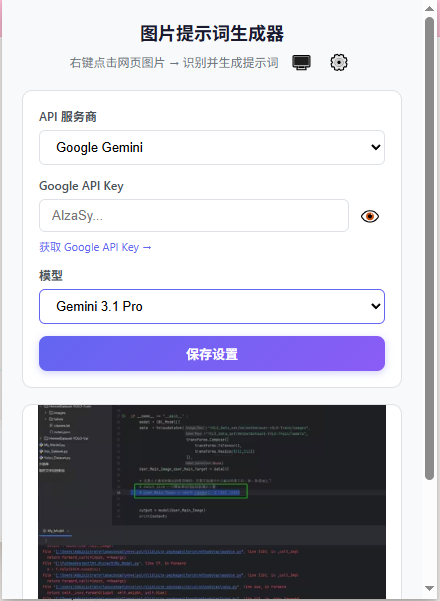
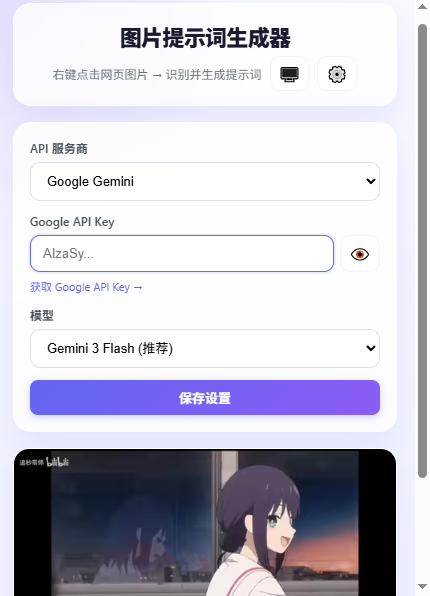
docs: redesign README with new screenshots and polished layout
Made-with: Cursor

diff --git a/README.md b/README.md
@@ -1,75 +1,110 @@
-# Image Prompt Generator / 图片提示词生成器
+<div align="center">
 
-一个基于多模态 AI 的图片识别与提示词生成工具。上传或选取图片，AI 自动分析内容、风格、构图、光影等元素，输出可直接用于 Midjourney、Stable Diffusion、DALL-E 等 AI 绘画工具的英文提示词，同时附带中文描述摘要。
+# Image Prompt Generator
 
-## 界面演示
+**AI 多模态图片识别 & 绘画提示词生成器**
 
-### 独立网页模式
+上传任意图片，AI 自动分析内容、风格、构图、色彩与光影，  
+输出可直接用于 Midjourney / Stable Diffusion / DALL-E 的中英文提示词。
 
-![独立网页模式演示](assets/screenshots/web-demo.png)
+[![Release](https://img.shields.io/github/v/release/Iroha-P/Image-Prompt-Generator?style=flat-square&color=6366f1)](https://github.com/Iroha-P/Image-Prompt-Generator/releases)
+[![License](https://img.shields.io/github/license/Iroha-P/Image-Prompt-Generator?style=flat-square&color=8b5cf6)](LICENSE)
 
-### 扩展弹窗模式
+</div>
 
-![扩展弹窗模式演示](assets/screenshots/popup-demo.png)
+---
 
-## 功能特点
+## Screenshots
 
-- **多种图片输入方式** — 拖拽上传、点击选择文件、粘贴图片 URL、右键网页图片
-- **多家 AI 服务商支持** — 硅基流动、Google Gemini、Anthropic Claude、OpenAI、OpenCode Zen、Vtrix
-- **丰富的模型选择** — 从免费模型到旗舰模型，包括 Gemini 3.1 Pro、Claude Opus 4.5、GPT-5.2 等
-- **双形态运行** — 既可作为 Chrome 扩展使用（右键识别网页图片），也可作为独立网页工具使用
-- **一键复制** — 生成的提示词可一键复制到剪贴板
-- **设置持久化** — API Key 和偏好设置自动保存
+<table>
+<tr>
+<td width="65%">
 
-## 支持的 AI 服务商
+**Web 全屏模式**
 
-| 服务商 | 推荐场景 | API 格式 |
+<img src="assets/screenshots/web-demo.png" alt="Web Demo" />
+
+</td>
+<td width="35%">
+
+**Chrome 扩展弹窗**
+
+<img src="assets/screenshots/popup-demo.png" alt="Extension Popup Demo" />
+
+</td>
+</tr>
+</table>
+
+---
+
+## Features
+
+| | 特性 | 说明 |
+|:---:|---|---|
+| **🖼** | 多种图片输入 | 拖拽上传、点击选择、粘贴 URL、右键网页图片 |
+| **🤖** | 6 家 AI 服务商 | 硅基流动 / Google Gemini / Claude / OpenAI / OpenCode / Vtrix |
+| **🧠** | 丰富的模型 | Gemini 3.1 Pro、Claude Opus 4.5、GPT-5.2 等 |
+| **🔄** | 双模式运行 | Chrome 扩展 + 独立网页，按需切换 |
+| **📋** | 一键复制 | 生成结果一键复制到剪贴板 |
+| **💾** | 设置持久化 | API Key 和偏好自动保存到本地 |
+
+---
+
+## Supported Providers
+
+| 服务商 | 推荐场景 | 格式 |
 |---|---|---|
-| **硅基流动 SiliconFlow** | 国内用户首选，有免费模型 | OpenAI 兼容 |
+| **硅基流动 SiliconFlow** | 国内首选，有免费模型 | OpenAI 兼容 |
 | **Google Gemini** | Gemini 3 系列，高质量多模态 | Gemini API |
-| **Anthropic Claude** | Claude Sonnet/Haiku，稳定可靠 | Anthropic API |
+| **Anthropic Claude** | Claude Sonnet / Haiku，稳定可靠 | Anthropic API |
 | **OpenAI** | GPT-4o 系列 | OpenAI API |
 | **OpenCode Zen** | 多模型聚合 | OpenAI 兼容 |
-| **Vtrix** | 全模型聚合（Gemini/Claude/GPT） | OpenAI 兼容 |
+| **Vtrix** | 全模型聚合 (Gemini / Claude / GPT) | OpenAI 兼容 |
 
-## 使用方式
+---
 
-### 方式一：独立网页工具
+## Quick Start
 
-直接在浏览器中打开 `index.html`，拖拽图片或粘贴 URL 即可使用。
+### 方式一 · 独立网页
 
-### 方式二：Chrome 扩展
+直接在浏览器中打开 `index.html`，拖拽图片或粘贴 URL 即可。
 
-1. 打开 Chrome，进入 `chrome://extensions/`
-2. 开启右上角「开发者模式」
-3. 点击「加载已解压的扩展程序」，选择本项目文件夹
-4. 在网页中右键任意图片 → 选择「识别图片并生成提示词」
-5. 也可点击扩展弹窗中的 🖥 按钮进入全屏上传模式
+### 方式二 · Chrome 扩展
+
+1. 打开 `chrome://extensions/`，开启 **开发者模式**
+2. 点击「加载已解压的扩展程序」，选择本项目文件夹
+3. 在网页中 **右键任意图片** → 选择「识别图片并生成提示词」
+4. 或点击扩展弹窗中的 🖥 按钮进入全屏上传模式
 
 ### 配置 API Key
 
-首次使用需配置 API Key：
+首次使用点击右上角「设置」→ 选择服务商 → 填入 API Key → 选择模型 → 保存。
 
-1. 点击「设置」按钮
-2. 选择 API 服务商
-3. 填入对应的 API Key（从服务商官网获取）
-4. 选择模型并保存
+---
 
-## 项目结构
+## Project Structure
 
 ```
-├── index.html        # 独立网页工具入口
-├── app.js            # 网页工具逻辑（API 调用 + UI 交互）
-├── style.css         # 网页工具样式
-├── manifest.json     # Chrome 扩展配置
-├── background.js     # 扩展 Service Worker（API 调用）
-├── popup.html        # 扩展弹窗页面
-├── popup.js          # 扩展弹窗逻辑
-├── popup.css         # 扩展弹窗样式
-└── README.md
+Image-Prompt-Generator/
+│
+├─ 🌐 Web 独立网页
+│  ├─ index.html          入口页面
+│  ├─ app.js              交互逻辑 & API 调用
+│  └─ style.css           样式
+│
+├─ 🧩 Chrome 扩展
+│  ├─ manifest.json       扩展配置
+│  ├─ background.js       Service Worker (API 调用)
+│  ├─ popup.html          弹窗页面
+│  ├─ popup.js            弹窗逻辑
+│  └─ popup.css           弹窗样式
+│
+└─ 📄 README.md
 ```
 
-## 输出示例
+---
+
+## Output Example
 
 ```
 【中文描述】
@@ -82,11 +117,13 @@ volumetric lighting, cinematic composition, ultra-detailed,
 purple and blue color palette, blade runner aesthetic, 8k resolution
 ```
 
-## 隐私说明
+---
 
-- 所有 API Key 仅存储在本地浏览器中（localStorage / chrome.storage），不会上传到任何服务器
-- 图片数据仅在调用 AI 接口时传输给所选的 API 服务商，本工具不保存任何图片
+## Privacy
+
+- 所有 API Key **仅存储在本地浏览器**（localStorage / chrome.storage），不会上传到任何服务器
+- 图片数据仅在调用 AI 接口时传输给所选服务商，本工具不保存任何图片
 
 ## License
 
-MIT
+[MIT](LICENSE)
